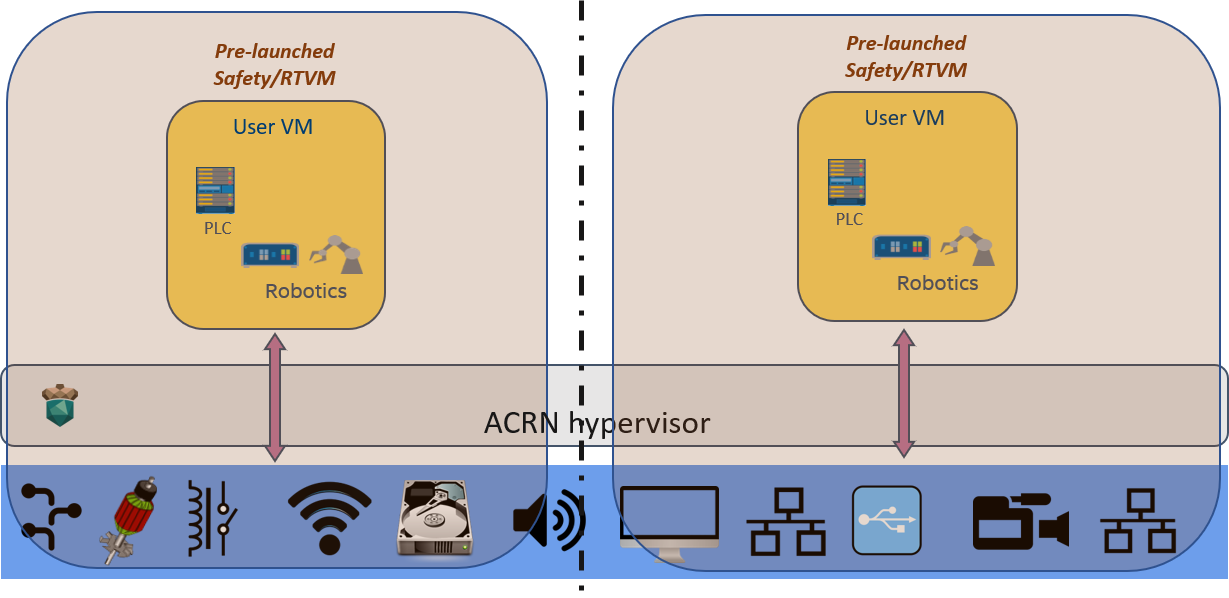
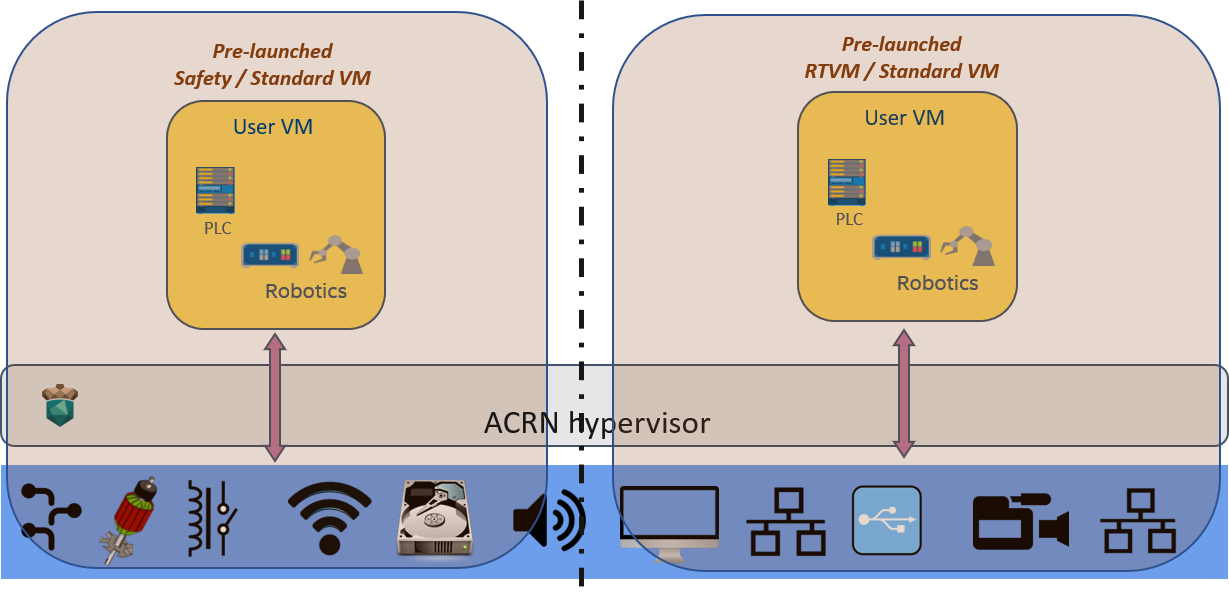
doc: make the "logical partitioning" description more generic
Make the description of the "Logial Partitioning" scenario more
generic than what is shown on the figure. This also helps as the
current examples of that scenario in the code base do not use
Safety or RTVM at the moment (as shown on the picture).

Tracked-On: #5903

diff --git a/doc/introduction/index.rst b/doc/introduction/index.rst
@@ -341,9 +341,10 @@ non-real-time tasks.
 Logical Partition Scenario
 ==========================
 
-This scenario is a simplified VM configuration for VM logical
-partitioning: one is the Safety VM and the other is a Linux-based User
-VM.
+This scenario is a simplified configuration for VM logical
+partitioning: both User VMs are independent and isolated, they do not share
+resources, and both are automatically launched at boot time by the hypervisor.
+The User VMs can be Real-Time VMs (RTVMs), Safety VMs, or standard User VMs.
 
 .. figure:: images/ACRN-Logical-Partition.png
    :width: 600px
